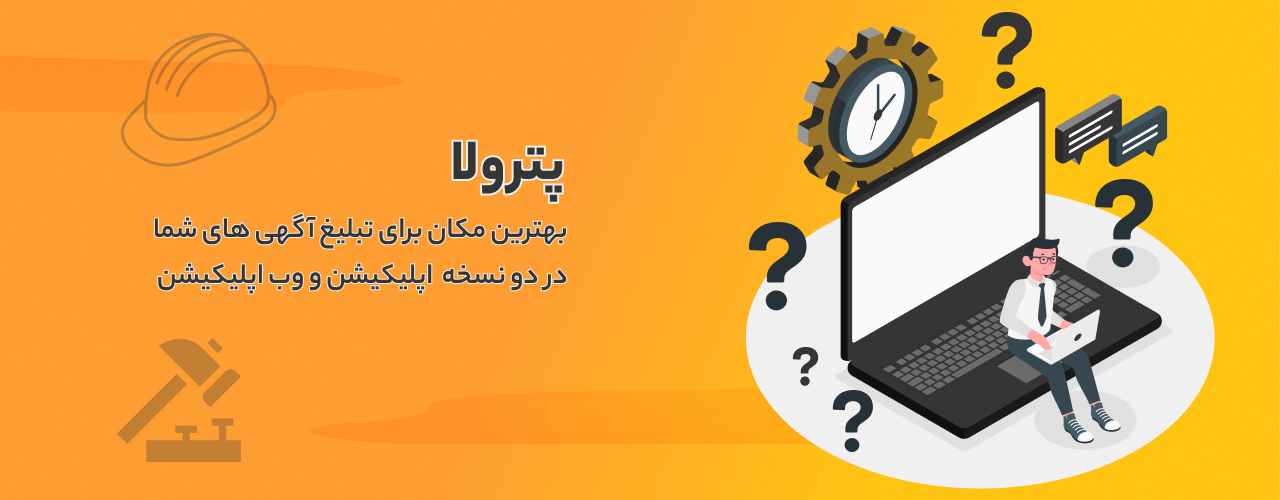
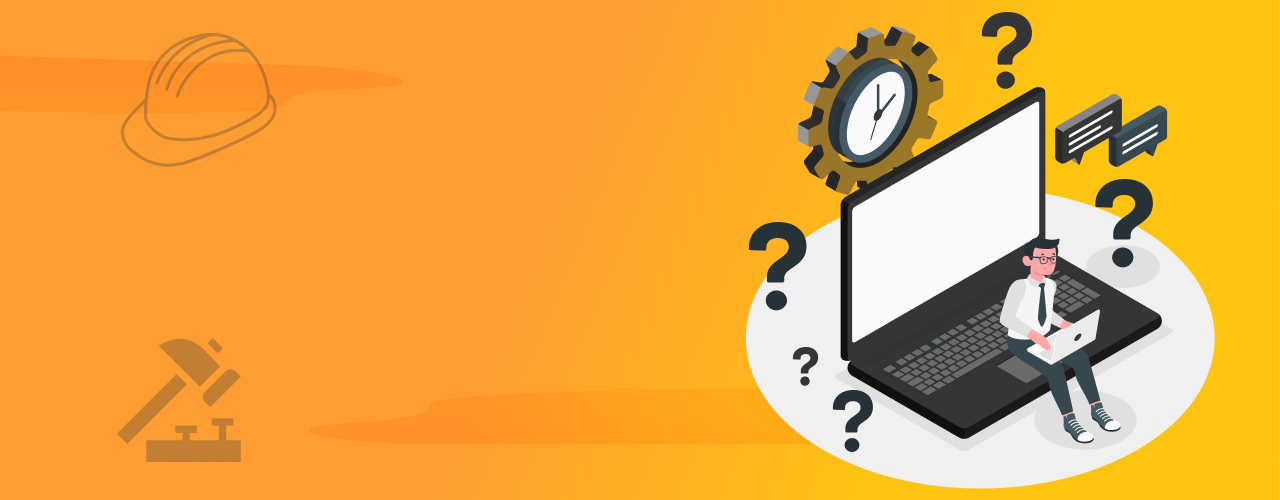
ui bug fixed

Changed region(s): [[0.0938, 0.42, 0.4688, 0.6], [0.3438, 0.27, 0.4375, 0.42]]

diff --git a/src/Components/Landing/Landing.css b/src/Components/Landing/Landing.css
@@ -111,6 +111,33 @@
 .landing-banner {
   width: 100%;
   margin: 50px 0 10px 0;
+  position: relative;
+}
+.landing-banner>span,
+.landing-banner>div
+{
+  position:absolute;
+  z-index: 9999999999999999999999;
+  font-style: normal;
+  font-weight: 900;
+  line-height: 93px;
+  color: #353535;
+  text-shadow: 0px -3px 2px #F0F0F0;
+}
+.landing-banner>span{
+  top: 20%;
+  left: 37%;
+  font-size: 48px;
+}
+.landing-banner>div:nth-child(3){
+  top: 37%;
+  left: 12.5%;
+  font-size: 24px;
+}
+.landing-banner>div:nth-child(4){
+  top: 47%;
+  left: 12.5%;
+  font-size: 24px;
 }
 .landing-banner > img {
   width: 100%;
@@ -262,6 +289,24 @@
     margin: 10px 0;
     align-items: center;
   }
+  .landing-banner>span{
+    top: 20%;
+    left:40%;
+    font-size: 40px;
+  }
+  .landing-banner>div:nth-child(3){
+    top: 35%;
+    left: 18%;
+    font-size: 20px;
+  }
+  .landing-banner>div:nth-child(4){
+    top: 47%;
+    left: 18%;
+    font-size: 20px;
+  }
+  .landing-banner>div{
+    text-shadow: none;
+  }
 }
 @media only screen and (max-width: 800px) {
   .landing-header {
@@ -282,6 +327,21 @@
   }
   .landing-app-section > div {
     width: 100% !important;
+  }
+  .landing-banner>span{
+    top: 18%;
+    left:41%;
+    font-size: 30px;
+  }
+  .landing-banner>div:nth-child(3){
+    top: 32%;
+    left: 18%;
+    font-size: 16px;
+  }
+  .landing-banner>div:nth-child(4){
+    top: 42%;
+    left: 18%;
+    font-size: 16px;
   }
 }
 @media only screen and (max-width: 600px) {
@@ -309,6 +369,21 @@
   .landing-footer > div:nth-child(1) > div {
     width: 400px;
     text-align:justify ;
+  }
+  .landing-banner>span{
+    top: 13%;
+    left:38%;
+    font-size: 30px;
+  }
+  .landing-banner>div:nth-child(3){
+    top: 30%;
+    left: 15%;
+    font-size: 13px;
+  }
+  .landing-banner>div:nth-child(4){
+    top: 40%;
+    left: 15%;
+    font-size: 13px;
   }
 }
 @media only screen and (max-width: 450px) {
@@ -353,5 +428,37 @@
     width: 300px;
     text-align: justify;
     font-size: 14px;
+  }
+  .landing-banner>span{
+    top: 5%;
+    left:35%;
+    font-size: 24px;
+  }
+  .landing-banner>div:nth-child(3){
+    top: 20%;
+    left: 5%;
+    font-size: 12px;
+  }
+  .landing-banner>div:nth-child(4){
+    top: 32%;
+    left: 5%;
+    font-size: 12px;
+  }
+}
+@media only screen and (max-width: 400px) {
+  .landing-banner>span{
+    top: -5%;
+    left:35%;
+    font-size: 24px;
+  }
+  .landing-banner>div:nth-child(3){
+    top:13%;
+    left: 8%;
+    font-size: 10px;
+  }
+  .landing-banner>div:nth-child(4){
+    top: 26%;
+    left: 8%;
+    font-size: 10px;
   }
 }

diff --git a/src/Components/Landing/Landing.jsx b/src/Components/Landing/Landing.jsx
@@ -115,7 +115,8 @@ const Landing=()=>{
                     </div>
                 </div>
             </div>
-                <div className="slider-wrapper">
+                <div className="slider-wrapper" style={{marginBottom:"70px",marginTop:"40px"}}>
+                    <div style={{fontSize:"22px",marginBottom:"15px",fontWeight:"700",width:"100%",textAlign:"center"}}>دسته بندی ها</div>
                     <Carousel breakPoints={breakPoints} itemsToScroll={1} itemsToShow={7}>
                         {category && category.map((d,index)=>(
                             <div className="landing-cat" onClick={()=>history.push("/home")}>
@@ -159,6 +160,9 @@ const Landing=()=>{
                 </div>
                 <div className="landing-banner">
                     <img src={bannerImage} alt="banner" />
+                    <span>پترولا</span>
+                    <div>بهترین مکان برای تبلیغ آگهی های شما</div>
+                    <div>در دو نسخه اپلیکیشن و وب اپلیکیشن</div>
                 </div>
                 <div className="slider-wrapper-ads">
                     <div style={{fontSize:"22px",fontWeight:"700",width:"100%",textAlign:"center"}}>برترین فروشندگان</div>
